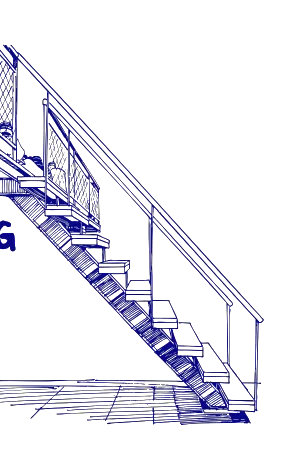
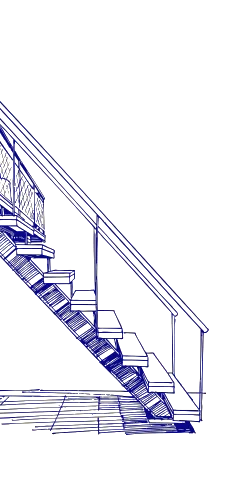
Fix collapsed work cards, crew flush to bottom, contact plate/phone left, clean stairs crop

Changed region(s): [[0.0, 0.0894, 0.896, 0.9234]]

diff --git a/artifacts/garage-website/src/v3/v3.css b/artifacts/garage-website/src/v3/v3.css
@@ -385,7 +385,6 @@
   transition: transform 170ms ease, box-shadow 170ms ease;
 }
 .v3-work-card:hover { transform: translateY(-5px) rotate(-0.4deg); box-shadow: 8px 10px 0 rgba(5, 5, 129, 0.25); }
-.v3-work-cell .v3-work-card { display: block; height: 100%; }
 .v3-work-card img {
   position: absolute;
   top: 3%;
@@ -624,7 +623,7 @@
   position: absolute;
   inset: 0;
   display: grid;
-  place-items: center;
+  place-items: end center;
   container-type: size;
 }
 /* exact 16:9 frame (contain) so hover zones map 1:1 onto the group photo */
@@ -731,7 +730,7 @@
 .v3-contact-plate-wrap {
   position: relative;
   width: fit-content;
-  margin: 0 auto clamp(2.5rem, 5vw, 4rem);
+  margin: 0 0 clamp(3rem, 6vw, 4.5rem) clamp(0.5rem, 3vw, 3rem);
 }
 .v3-contact-plate {
   display: inline-block;
@@ -745,9 +744,10 @@
 }
 .v3-contact-phone {
   position: absolute;
-  left: -24%;
-  top: 92%;
+  left: 8%;
+  top: 84%;
   width: clamp(70px, 8vw, 120px);
+  pointer-events: none;
 }
 .v3-contact-grid {
   display: grid;